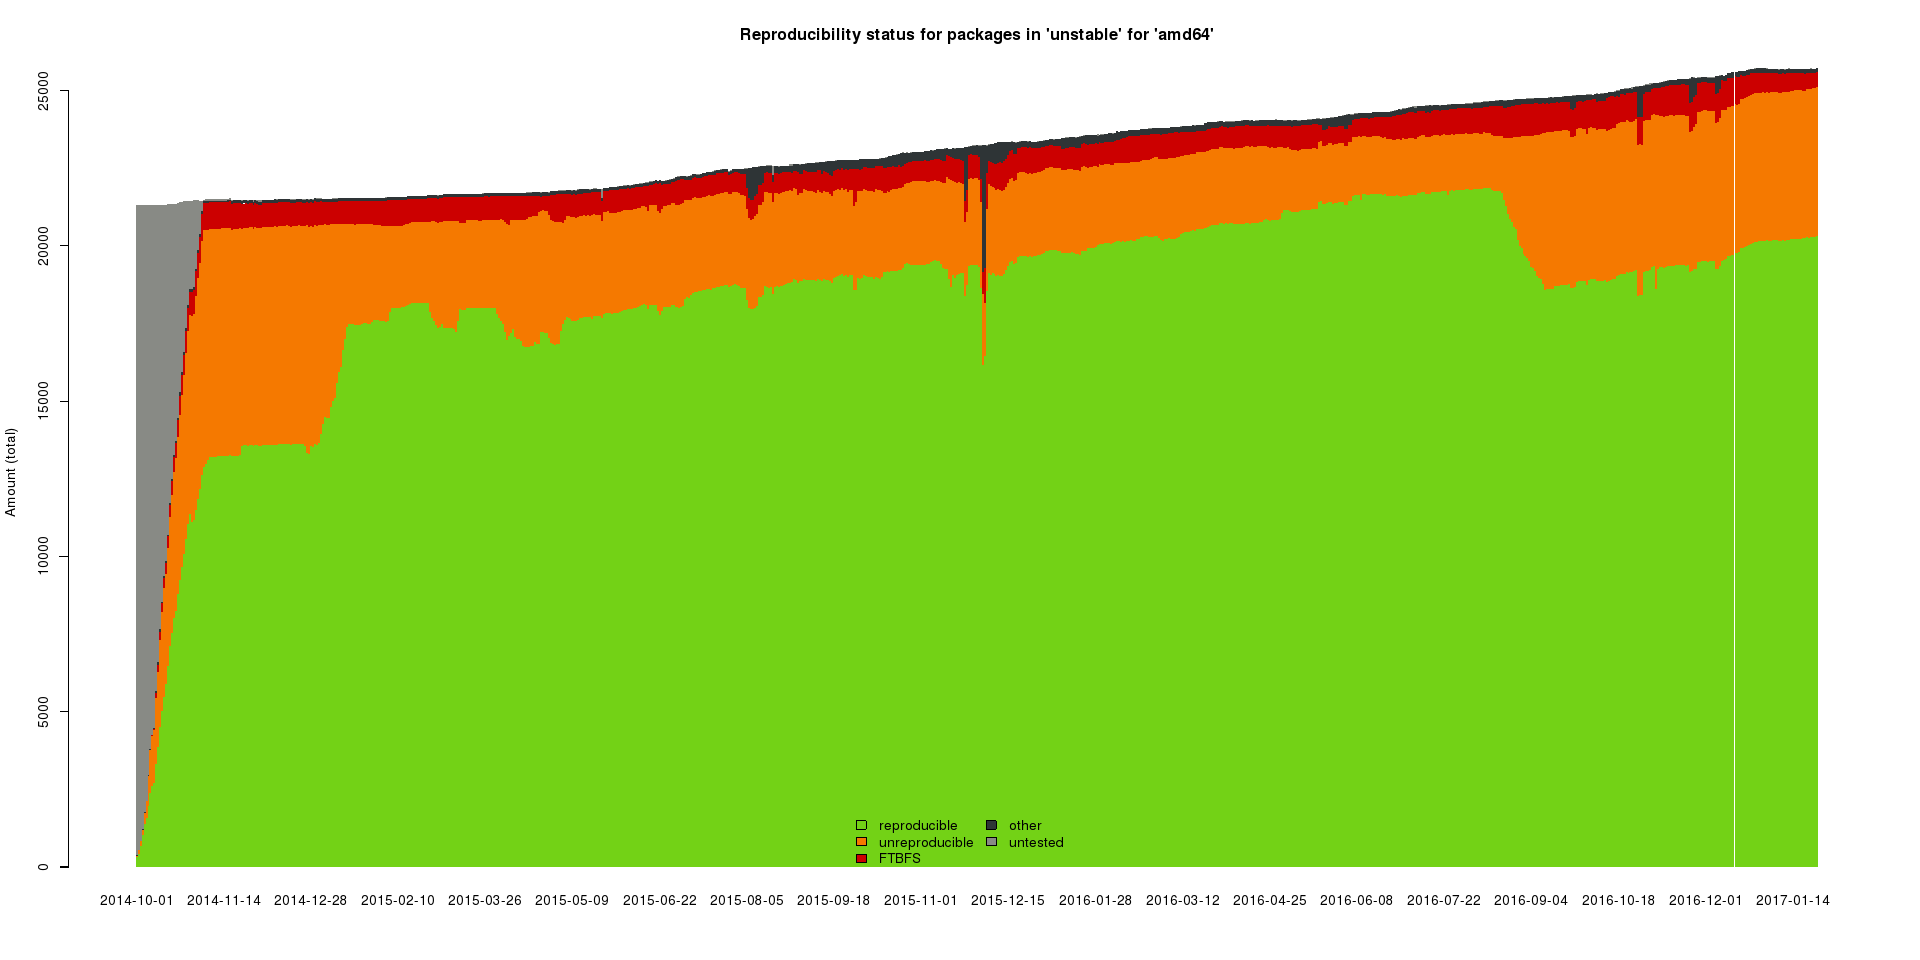
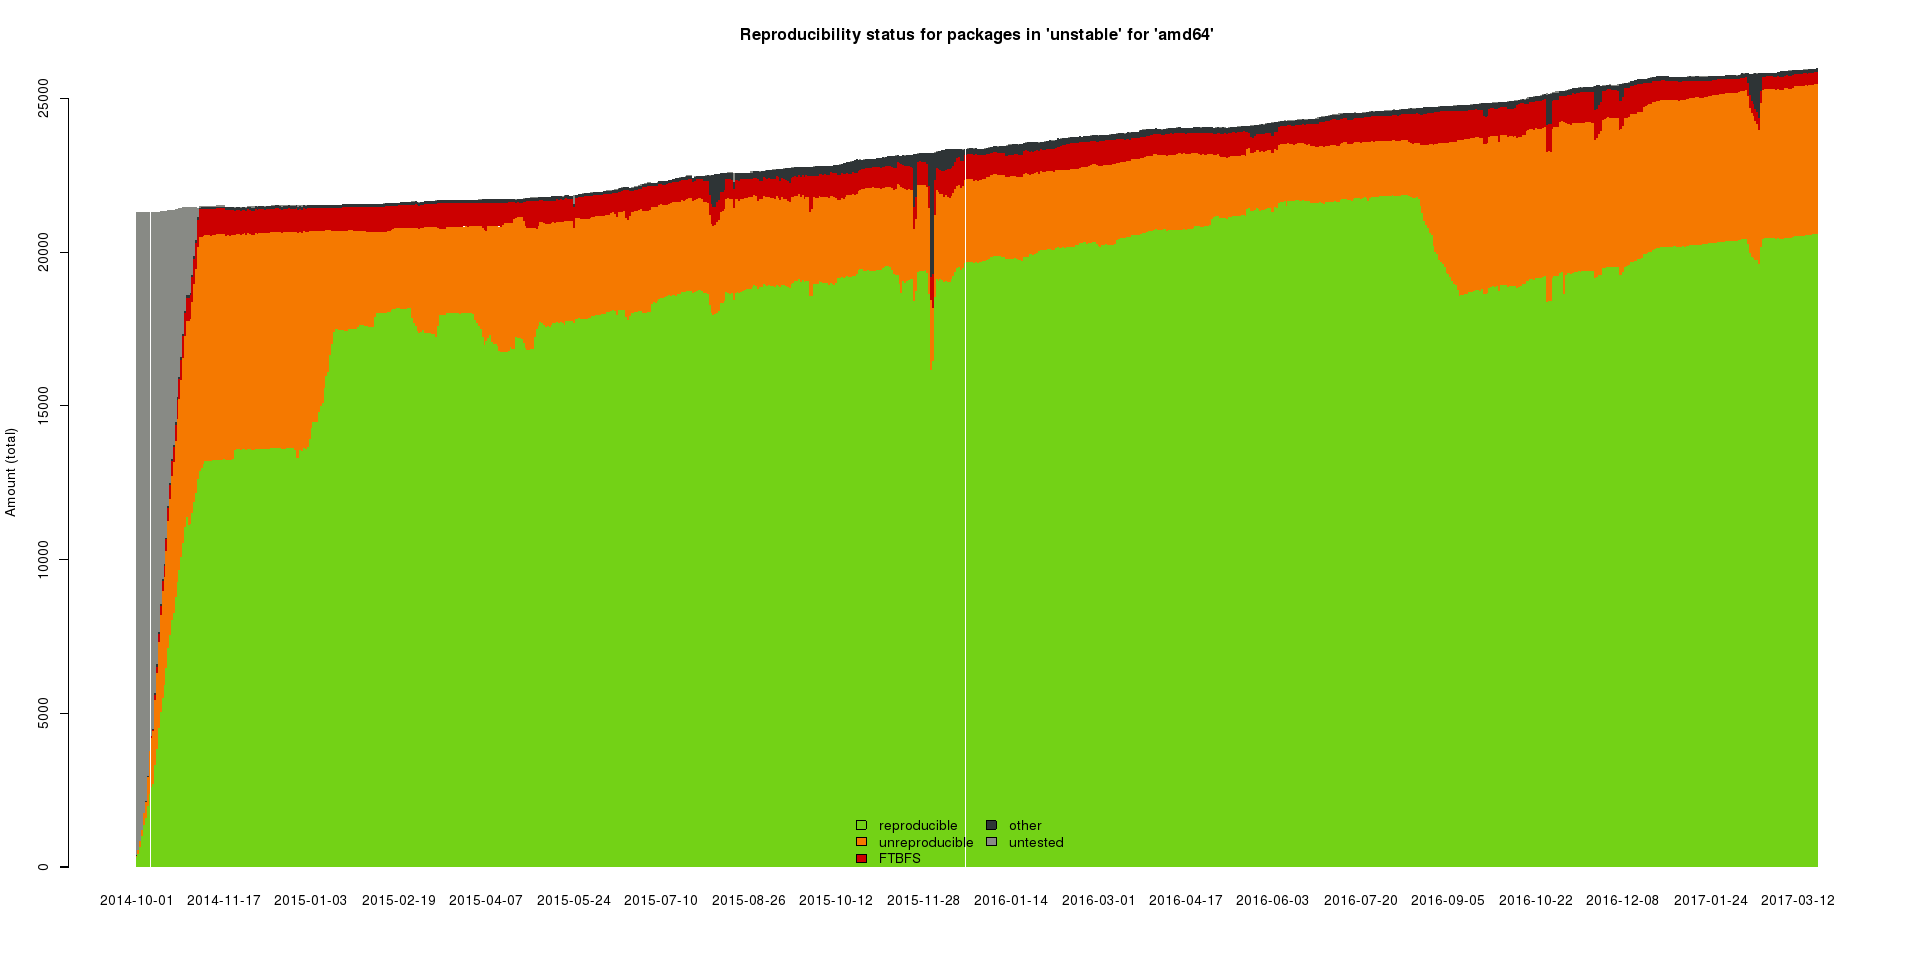
GUUG: update images and numbers

diff --git a/2017-03-24-GUUG/2017-03-24-GUUG.tex b/2017-03-24-GUUG/2017-03-24-GUUG.tex
@@ -424,8 +424,8 @@ Darmstadt, Germany\\
   \texttt{experimental}
   \item Also testing: coreboot, OpenWrt, LEDE, NetBSD, FreeBSD,
   Arch Linux, Fedora and soon F-Droid too
-  \item 44 nodes (amd64/i386/arm64/armhf), 200 cores and 1 TB RAM
-  \item 486 jenkins jobs running on jenkins.debian.net
+  \item 46 nodes (amd64/i386/arm64/armhf), >200 cores and >1 TB RAM
+  \item 502 jenkins jobs running on jenkins.debian.net
   \item 43 scripts in Python and Bash, 283 lines of code in average
   \item 37 contributors for \texttt{jenkins.debian.net.git}
  \end{itemize}
@@ -450,15 +450,15 @@ domainname & \texttt{debian.net} & \texttt{i-capture-the-domainname} \\
 uid & \texttt{1111} & \texttt{2222} \\
 gid & \texttt{1111} & \texttt{2222} \\
 UTS namespace & shared with the host & \textit{modified using \texttt{/usr/bin/unshare --uts}} \\
-kernel version & Linux 3.16 or 4.X & on amd64 always varied, on armhf
-sometimes \\
+kernel version & Linux 3.16 or 4.X & on amd64 and arm64 always varied, on armhf sometimes, 
+on i386 32/64bit kernel variation instead \\
 umask & 0022 & 0002 \\
 CPU type & \multicolumn{2}{l}{varied on i386} \\
- & on armhf varied a bit, not on amd64 & \\
-filesystem & \multicolumn{2}{l}{same for both builds on amd64: (\texttt{tmpfs}), on armhf \texttt{ext3/4}} \\
+ & on armhf varied a bit, not on amd64 nor arm64 & \\
+filesystem & \multicolumn{2}{l}{same for both builds on amd64, i386 and arm64: (\texttt{tmpfs}), on armhf \texttt{ext3/4}} \\
  & & \textit{(and we have} \texttt{disorderfs}\textit{, but the code is disabled)} \\
-year, month, date & \multicolumn{2}{l}{on amd64: 398 days variation, on armhf not yet} \\
-hour, minute & \multicolumn{2}{l}{hour is usually the same… usually, the minute differs… } \\
+year, month, date & \multicolumn{2}{l}{on amd64, arm64 and i386: 398 days variation, on armhf not yet} \\
+hour, minute & \multicolumn{2}{l}{hour and minute deterministically and non-deterministically varied… } \\
 \textit{everything else} & \multicolumn{2}{l}{\textit{is likely the same…}}
     \end{tabular}
    }
@@ -545,7 +545,7 @@ hour, minute & \multicolumn{2}{l}{hour is usually the same… usually, the minut
   };
  \end{tikzpicture}
  \begin{center}
-  \footnotesize{23,405 (93.3\%) out of 25,067 source packages are reproducible \\
+  \footnotesize{23,378 (93.8\%) out of 24,909 source packages are reproducible \\
     in our test framework on \texttt{amd64}}
   \vfill
  \end{center}
@@ -559,7 +559,7 @@ hour, minute & \multicolumn{2}{l}{hour is usually the same… usually, the minut
   };
  \end{tikzpicture}
  \begin{center}
-  \footnotesize{20,309 (78.9\%) out of 25,734 source packages are reproducible \\
+  \footnotesize{20,597 (79.2\%) out of 25,982 source packages are reproducible \\
     in our test framework on \texttt{amd64}} (difference due to build path variations)
   \vfill
  \end{center}
@@ -571,10 +571,10 @@ hour, minute & \multicolumn{2}{l}{hour is usually the same… usually, the minut
  \begin{itemize}
   \item \url{https://reproducible.debian.net/$src}
   \item 48 package sets 
-  \item 282 categorised distinct issues
-  \item 7,413 notes
-  \item 1,595 unreproducible packages in \texttt{stretch/amd64} (testing), but only
-  111 without a note (5,288 in \texttt{unstable} but also only 154 without a
+  \item 292 categorised distinct issues
+  \item 6,604 notes
+  \item 1,473 unreproducible packages in \texttt{stretch/amd64} (testing), but only
+  90 without a note (5,253 in \texttt{unstable} but also only 149 without a
   note)
   \item maintained in \texttt{notes.git} by 49 contributors
   \item currently Debian only, but cross distro notes are planned
@@ -628,8 +628,8 @@ hour, minute & \multicolumn{2}{l}{hour is usually the same… usually, the minut
 \begin{frame}
  \frametitle{Debian summary / What's left to do}
  \begin{itemize}
-  \item This is/was a proof-of-concept, Debian is neither 93.3\% reproducible nor
-  78.9\%. (and 10\% > 2,500 sources packages!)
+  \item This is/was a proof-of-concept, Debian is neither 93.8\% reproducible nor
+  79.2\%. (and 10\% > 2,500 sources packages!)
   \item<2-3> All our required changes are finally in Debian now!
   \item<2-3> Debian 9, "stretch", will only be partially reproducible.
   \item<2-3> Because, Debian does not (yet?) do full rebuilds before
@@ -838,8 +838,8 @@ hour, minute & \multicolumn{2}{l}{hour is usually the same… usually, the minut
  \begin{itemize}
   \item Individuelly signed checksums (think web of trust) could work in the
   Debian case (we have a gpg web of trust), but IMO won't scale.
-  \item { Another idea: rebuilders, run by large organisations
-  (ACLU, BSI, CCC, Deutsche Bank, Greenpeace, GUUG, NASA, NSA).}
+  \item { Another idea: rebuilders, run by large organisations,
+  eg. ACLU, BSI, CCC, Deutsche Bank, Greenpeace, GUUG, NASA, NSA, etc…}
   \item Fedora rebuilds Debian, Debian rebuilds openSUSE, openSUSE rebuilds
   NetBSD, etc…
   \item Big customers could just rebuild everything themselves.
